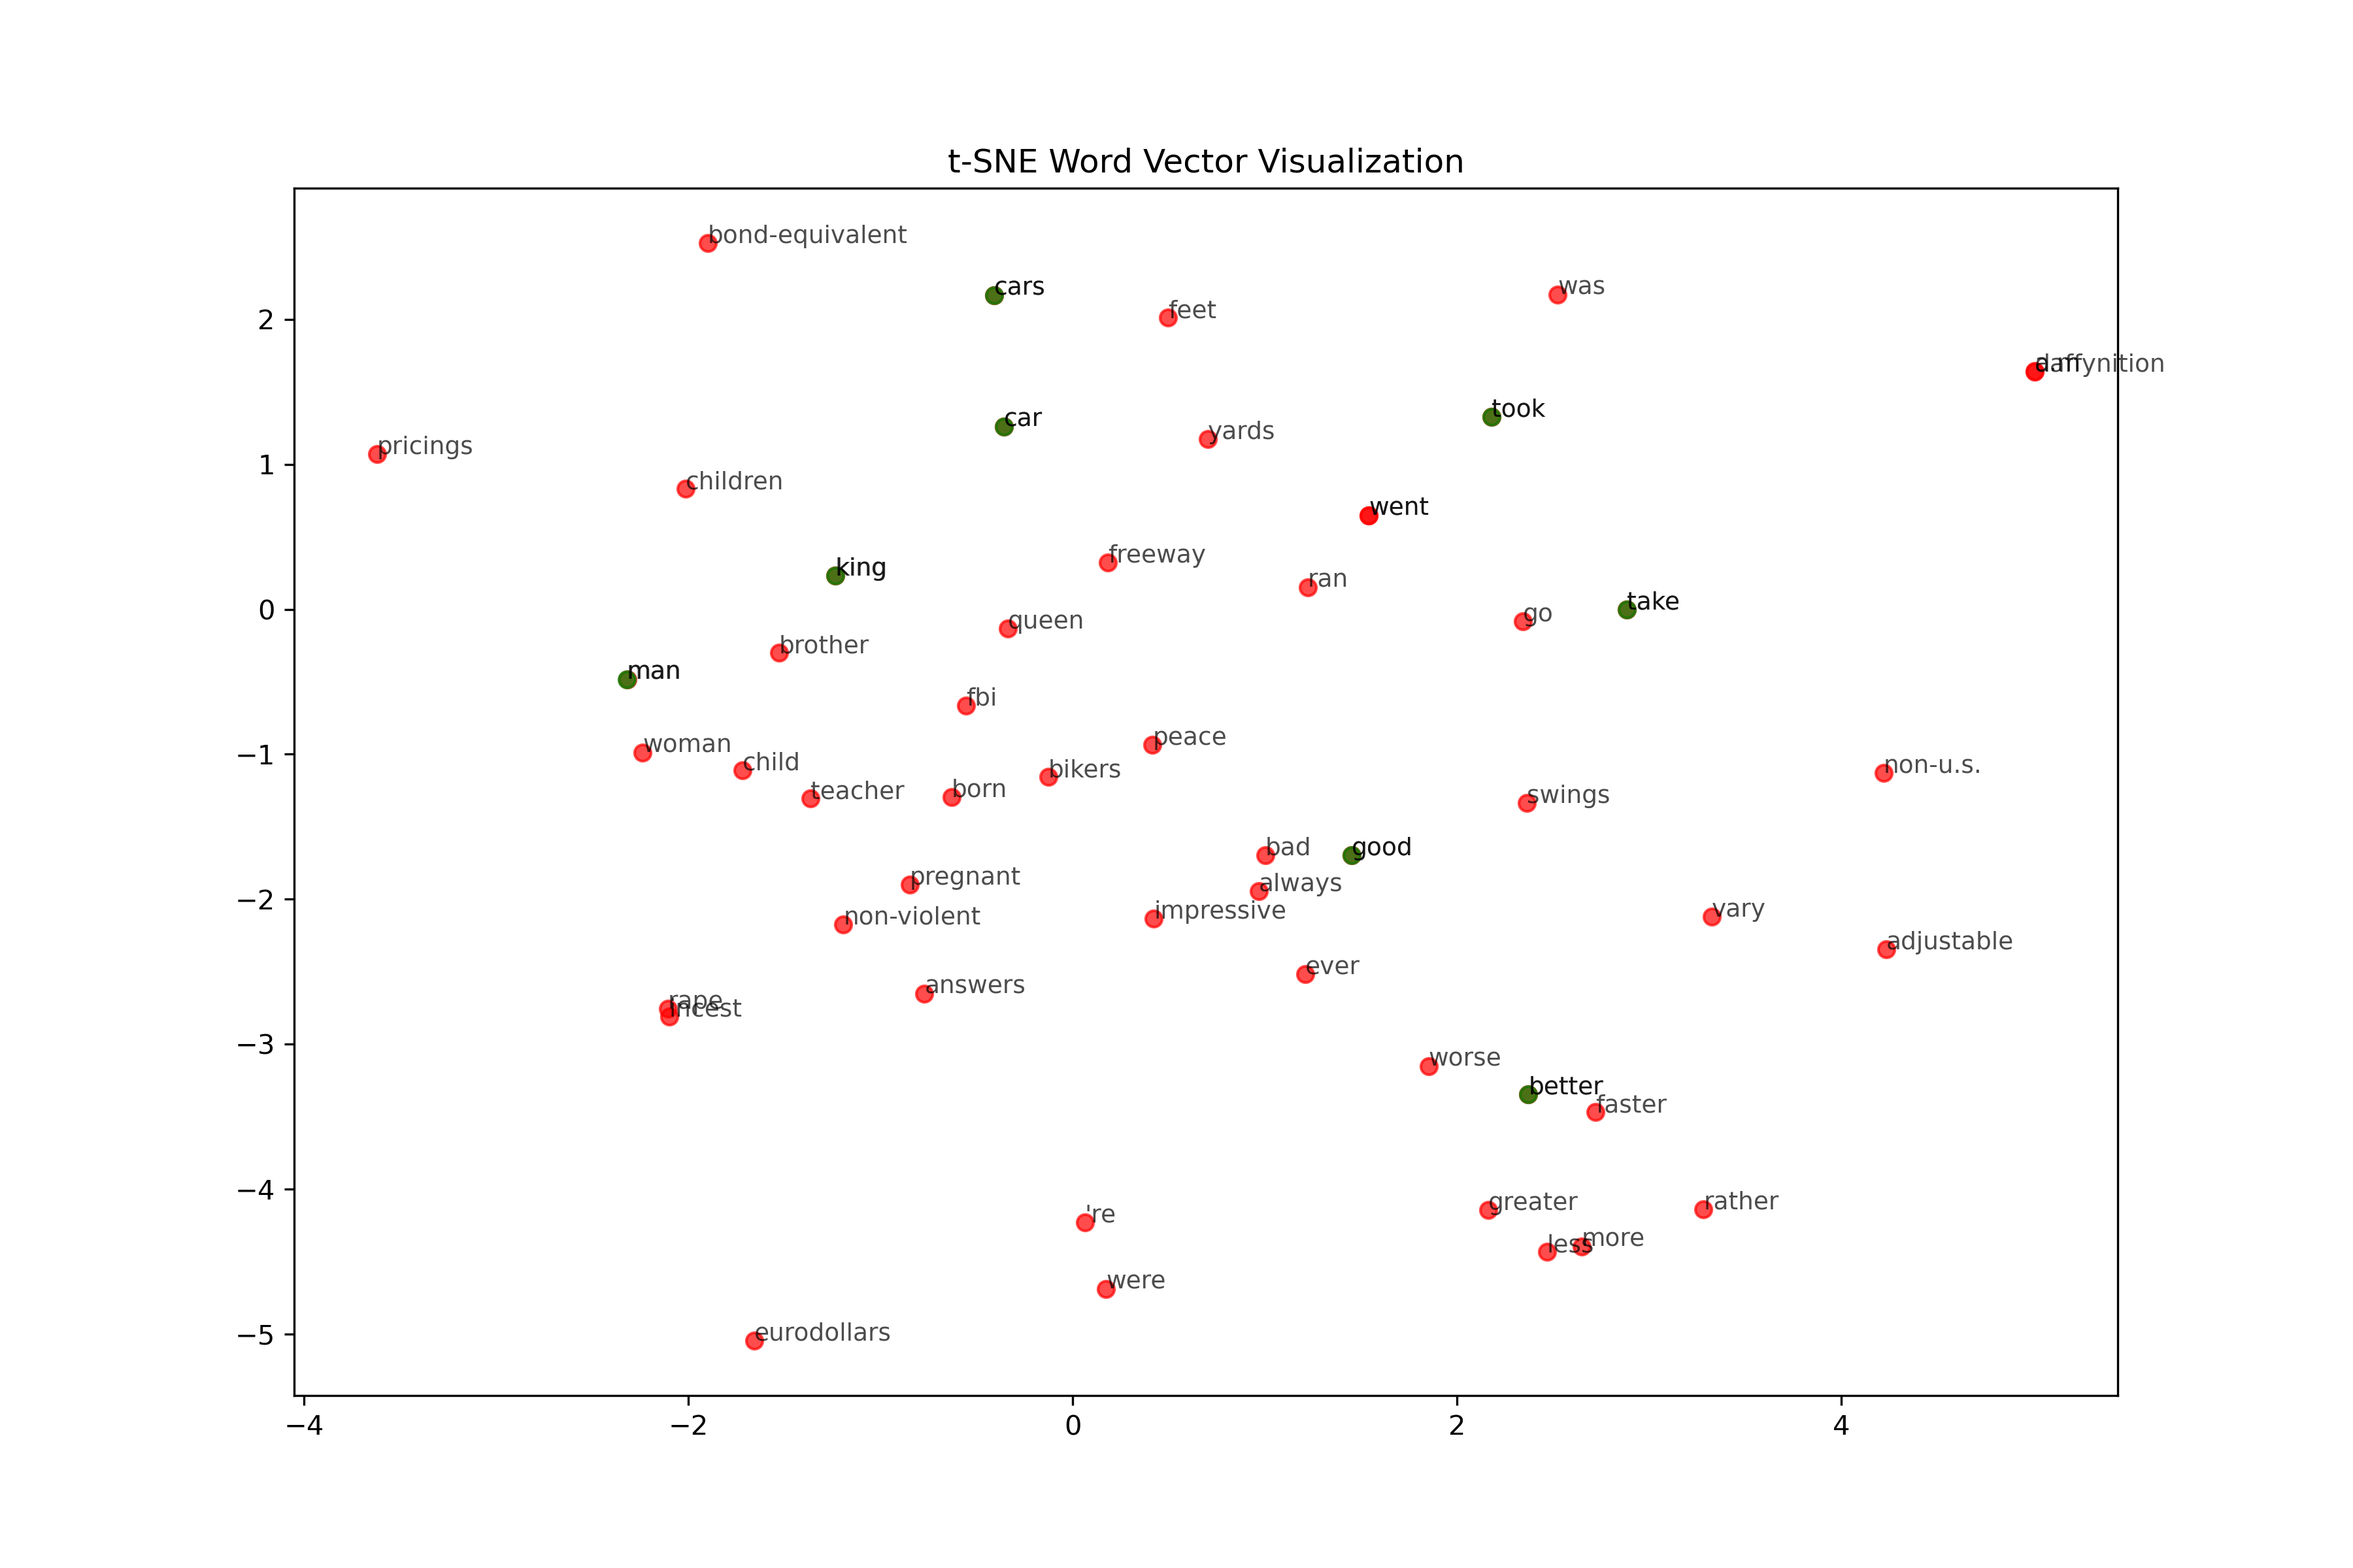
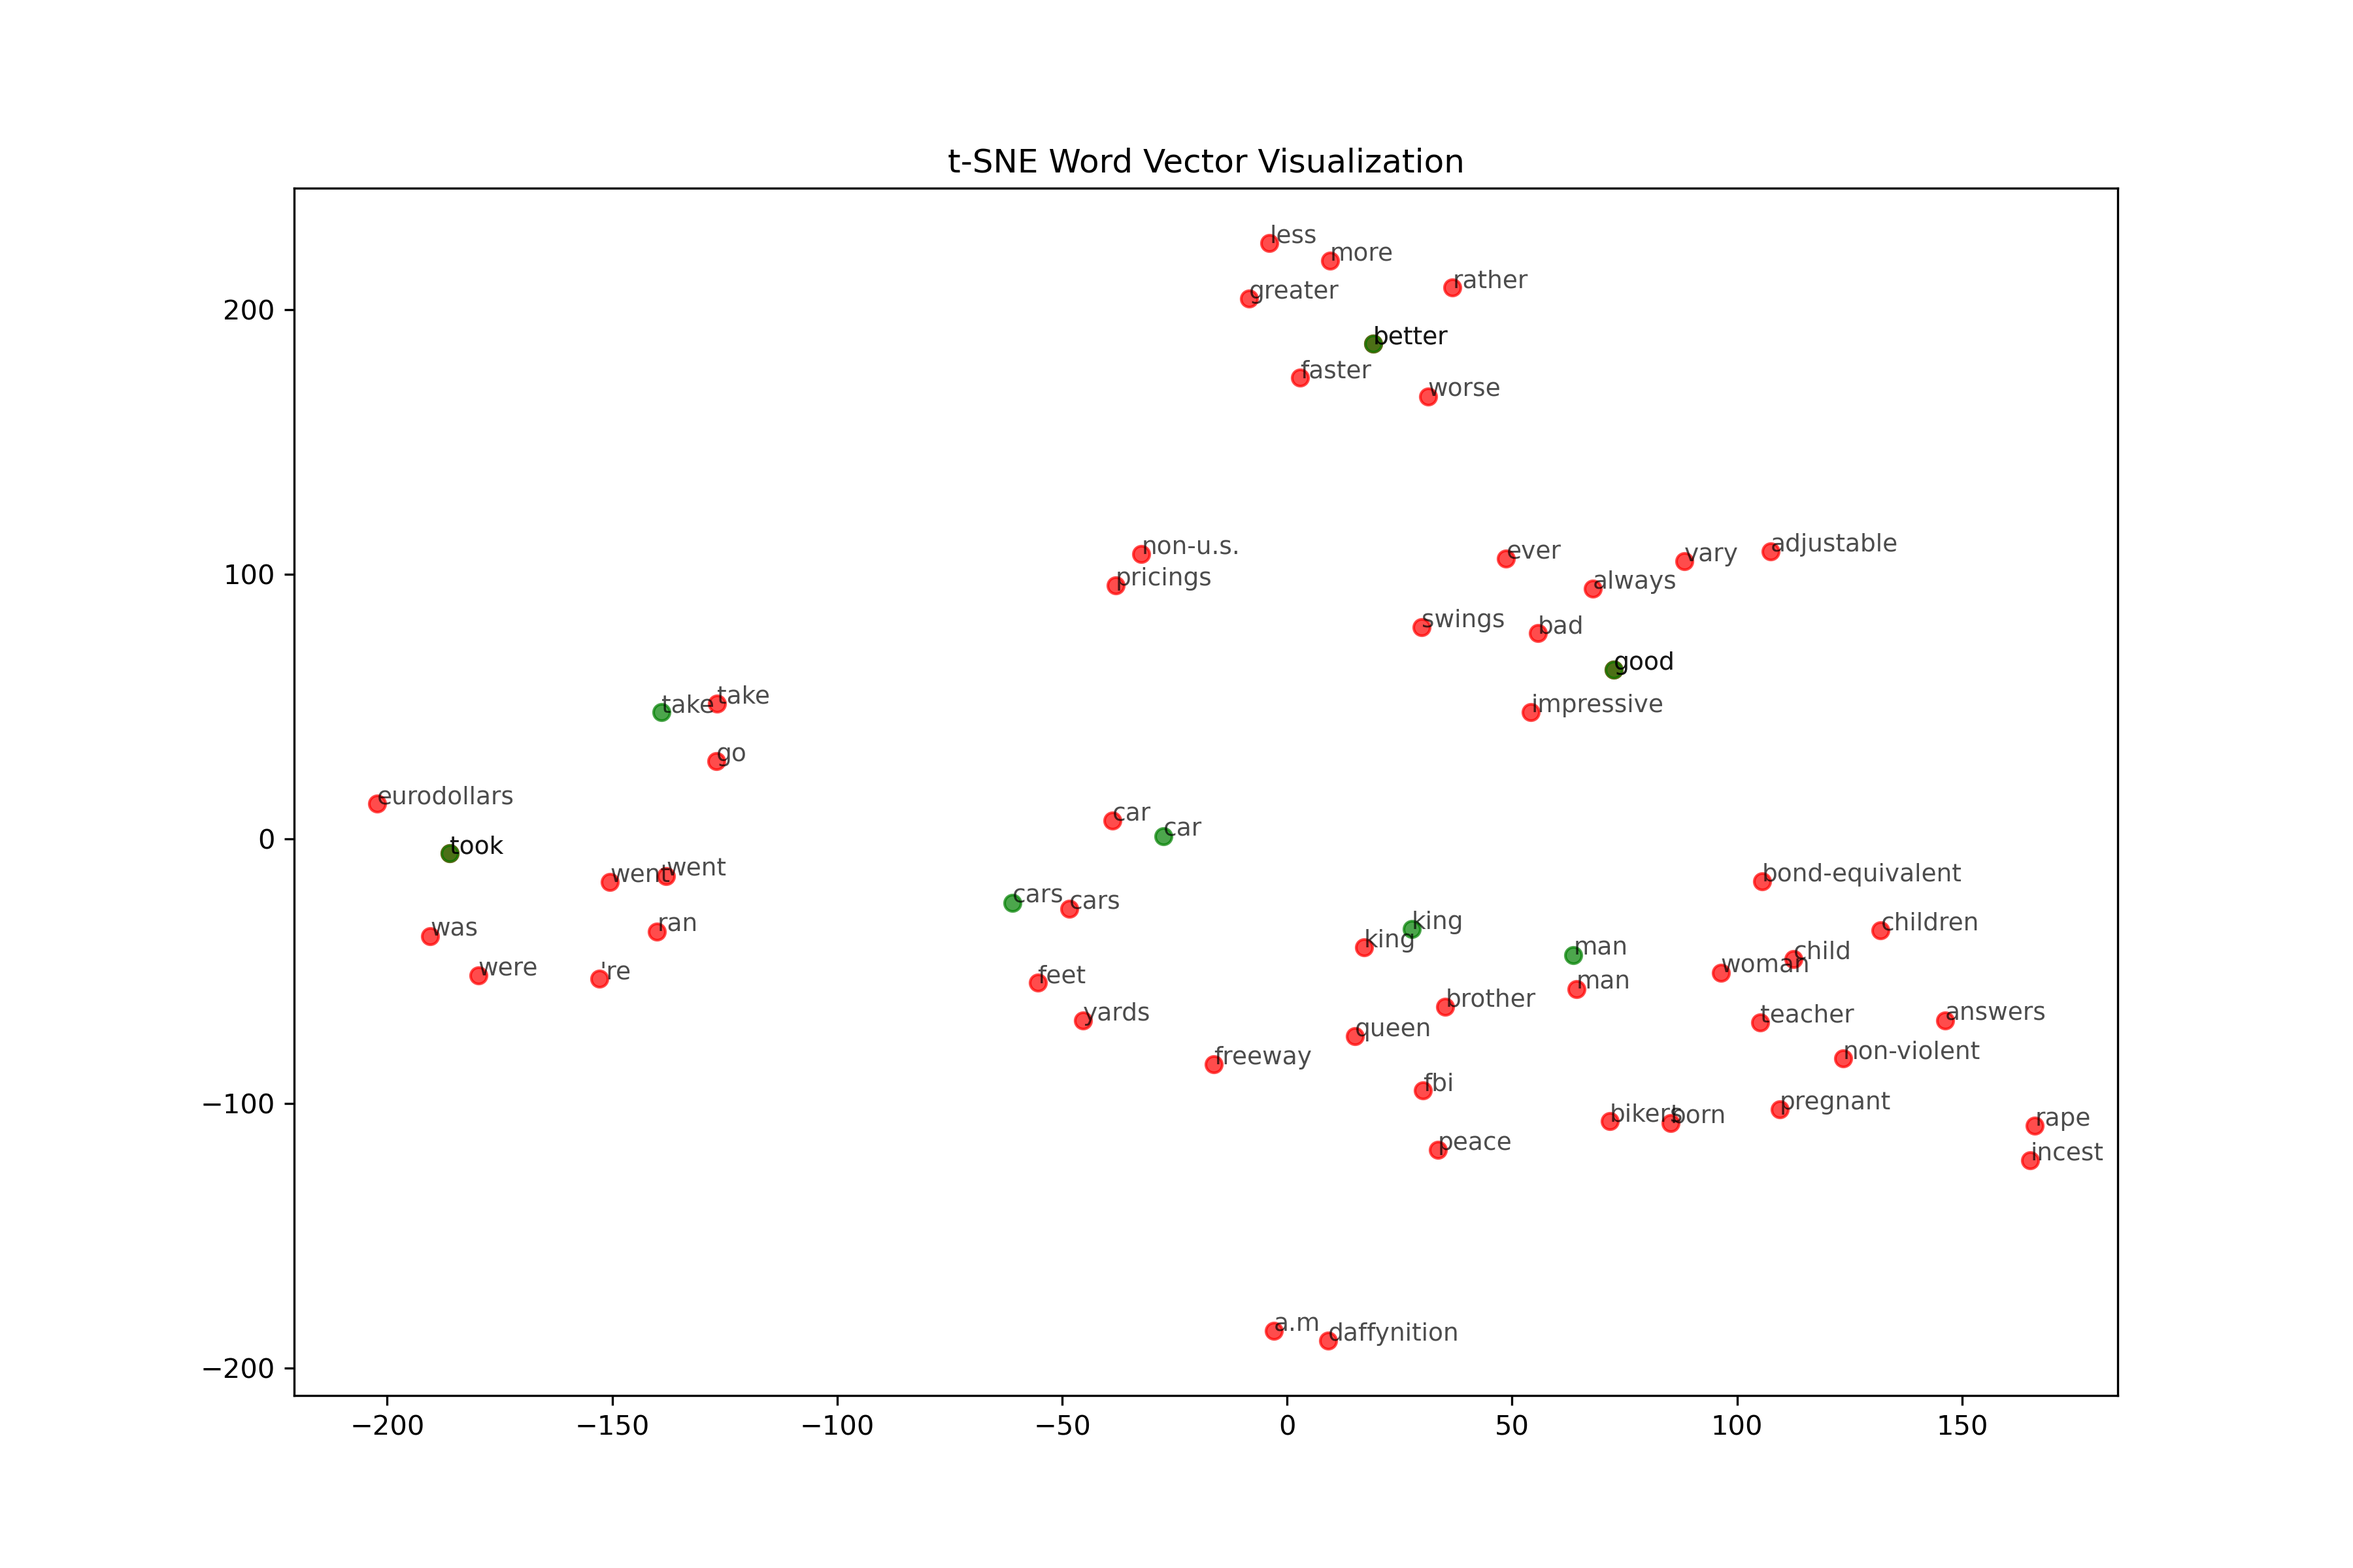
share png

diff --git a/ch04/viz_tsne.py b/ch04/viz_tsne.py
@@ -48,7 +48,7 @@ def visualize_tsne(
     )
 
     # t-SNE 적용
-    tsne = TSNE(n_components=2, perplexity=30, random_state=42)
+    tsne = TSNE(n_components=2, perplexity=5, random_state=42)
     reduced_vectors = tsne.fit_transform(selected_vectors)
 
     # 시각화
